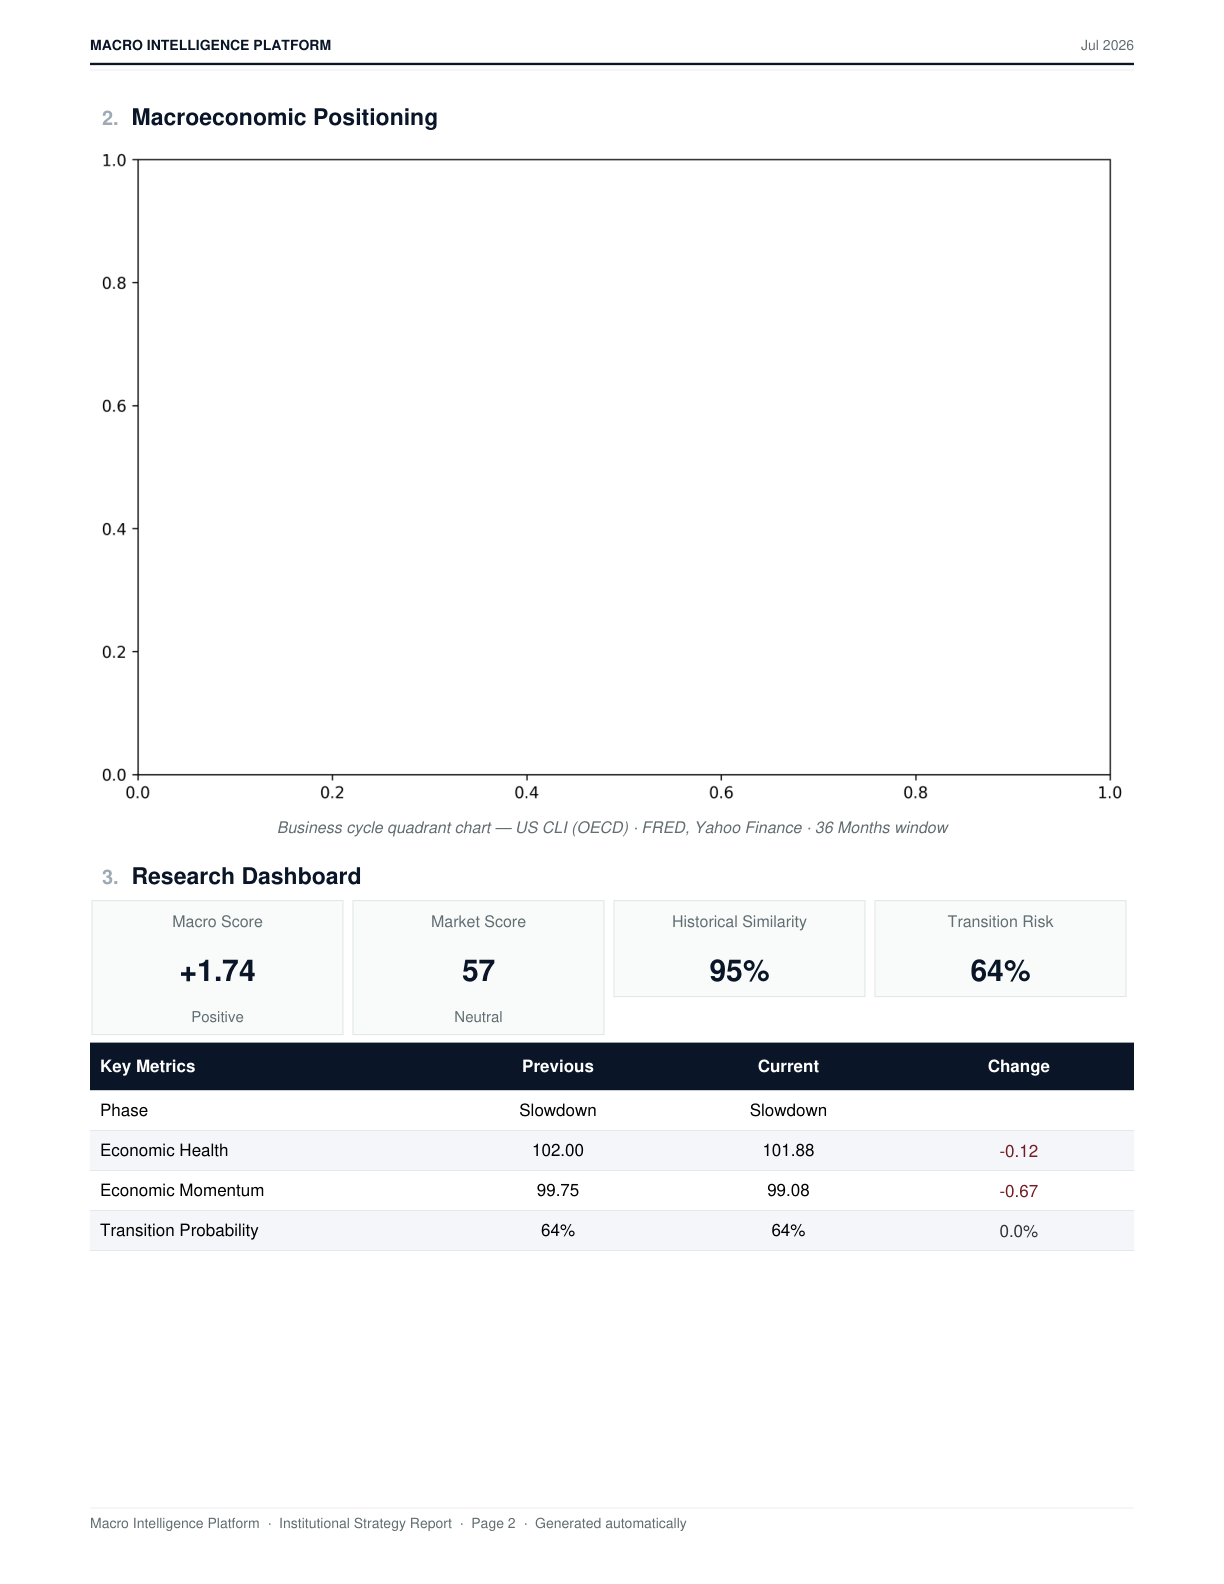
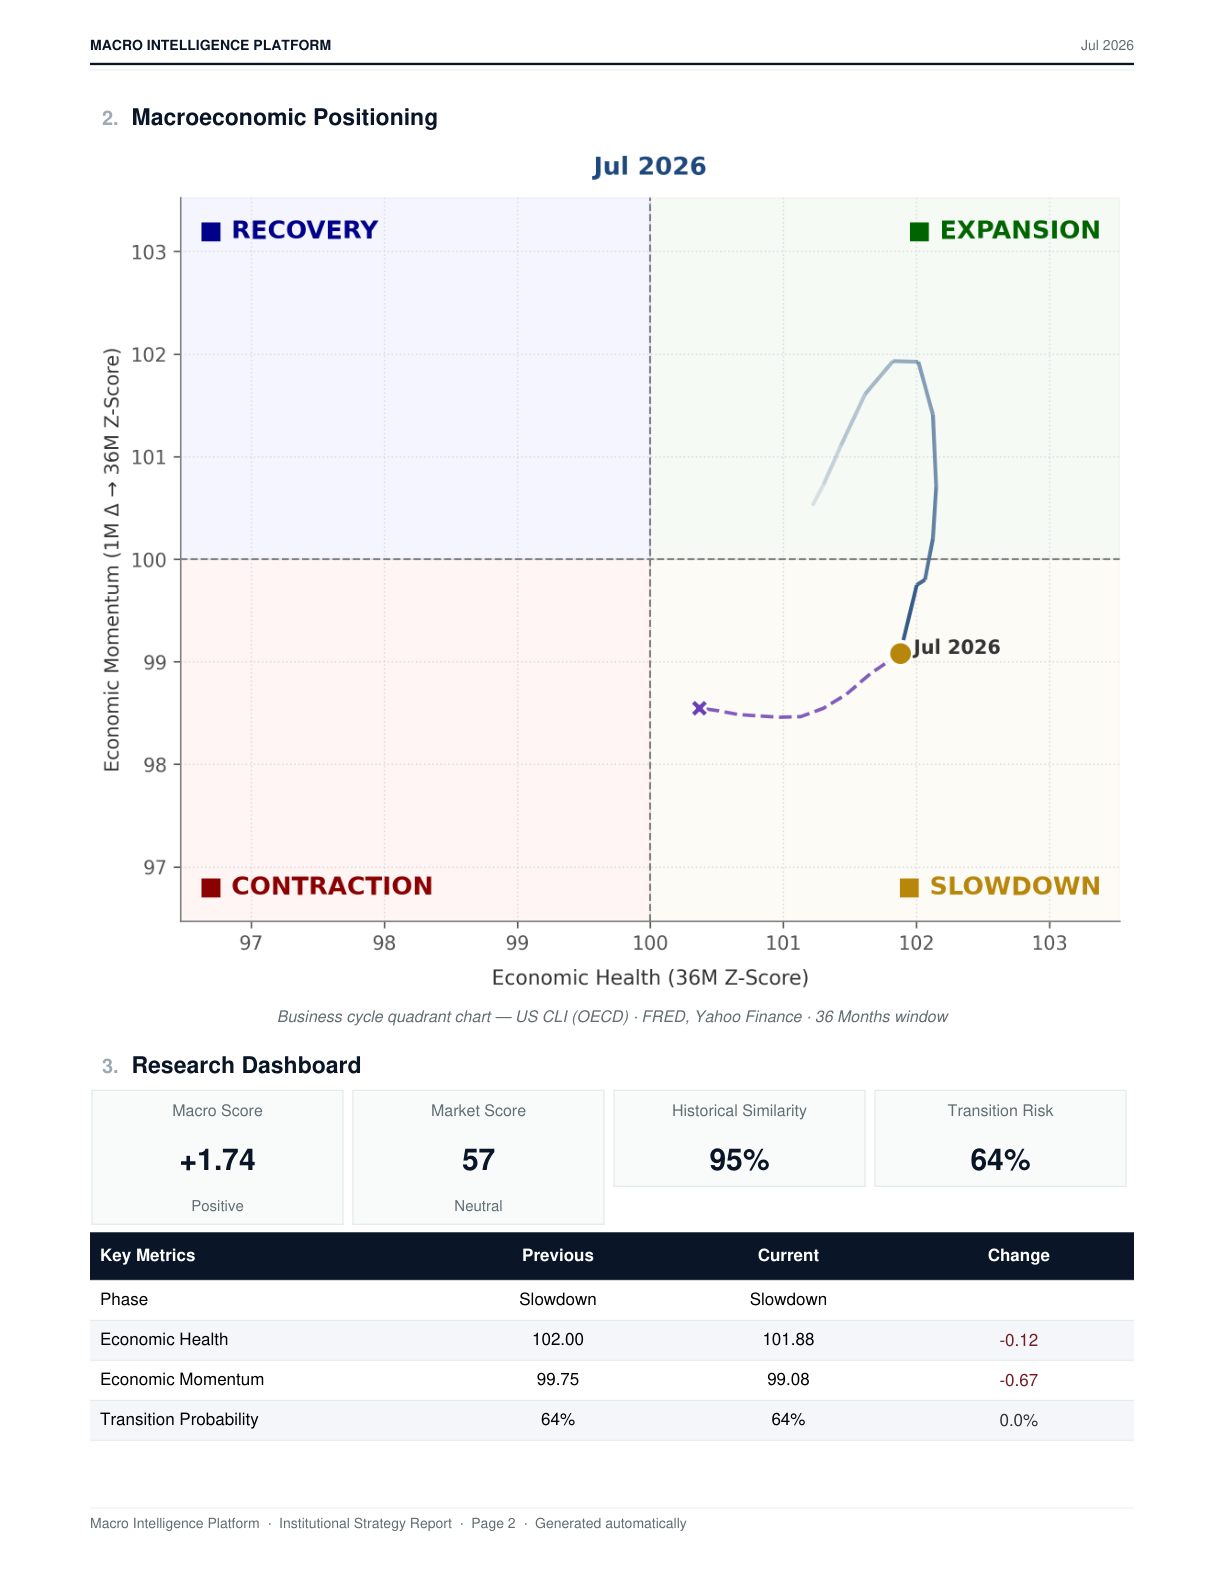
fix(pdf): fix Next Likely Phase header wrapping and generate authentic chart preview for README

diff --git a/research/pdf.py b/research/pdf.py
@@ -237,7 +237,7 @@ def build_pdf_report(data, analysis, insights, market_insights, narrative,
          Paragraph('<b>Next Likely Phase</b>', S.BODY),
          Paragraph(_clean(next_phase), S.BODY)],
     ]
-    snap_t = Table(snap_rows, colWidths=[1.2 * inch, 2.425 * inch, 1.2 * inch, 2.425 * inch])
+    snap_t = Table(snap_rows, colWidths=[1.15 * inch, 2.15 * inch, 1.65 * inch, 2.3 * inch])
     snap_t.setStyle(TableStyle([
         ('BACKGROUND', (0, 0), (-1, -1), S.CALLOUT_BG),
         ('BOX', (0, 0), (-1, -1), 0.5, S.NAVY_ACCENT),
